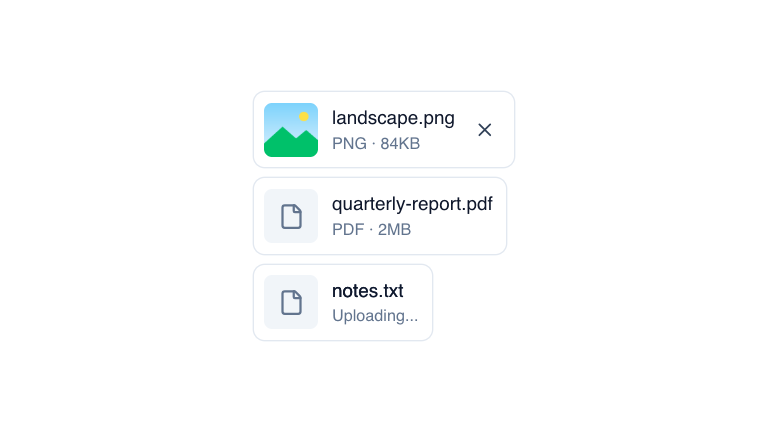
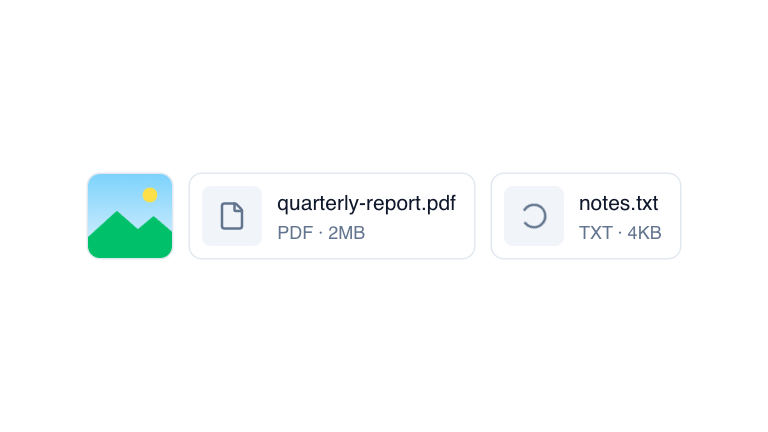
feat(ChatAttachment): show images as thumbnails with a corner remove button

diff --git a/src/runtime/components/ChatAttachment.vue b/src/runtime/components/ChatAttachment.vue
@@ -29,7 +29,7 @@ export interface ChatAttachmentProps {
    */
   url?: string
   /**
-   * The text displayed under the name. Defaults to the file extension and size.
+   * The text displayed under the name of a file that is not an image. Defaults to its extension and size.
    */
   description?: string
   /**
@@ -52,6 +52,12 @@ export interface ChatAttachmentProps {
    * @IconifyIcon
    */
   icon?: IconProps['name']
+  /**
+   * The icon displayed while the file uploads.
+   * @defaultValue appConfig.ui.icons.loading
+   * @IconifyIcon
+   */
+  loadingIcon?: IconProps['name']
   /**
    * The icon displayed when the upload fails.
    * @defaultValue appConfig.ui.icons.error
@@ -82,8 +88,6 @@ import { useLocale } from '../composables/useLocale'
 import { formatFileSize } from '../utils/file'
 import { tv } from '../utils/tv'
 import UIcon from './Icon.vue'
-import UButton from './Button.vue'
-import UChatShimmer from './ChatShimmer.vue'
 
 const _props = withDefaults(defineProps<ChatAttachmentProps>(), {
   as: 'div',
@@ -123,42 +127,51 @@ const fileDescription = computed(() => {
   return [extension, formatFileSize(props.file?.size)].filter(Boolean).join(' · ')
 })
 
+const statusIcon = computed(() => {
+  if (props.status === 'uploading') return props.loadingIcon || appConfig.ui.icons.loading
+  if (props.status === 'error') return props.errorIcon || appConfig.ui.icons.error
+
+  return undefined
+})
+
 // eslint-disable-next-line vue/no-dupe-keys
 const ui = computed(() => tv({ extend: theme, ...(appConfig.ui?.chatAttachment || {}) })({
   size: props.size,
+  image: isImage.value,
   status: props.status
 }))
 </script>
 
 <template>
   <Primitive :as="props.as" :data-status="props.status" data-slot="root" :class="ui.root({ class: [props.ui?.root, props.class] })">
-    <div data-slot="leading" :class="ui.leading({ class: props.ui?.leading })">
-      <img v-if="isImage" :src="previewUrl" :alt="fileName" data-slot="image" :class="ui.image({ class: props.ui?.image })">
-      <UIcon
-        v-else
-        :name="props.status === 'error' ? (props.errorIcon || appConfig.ui.icons.error) : (props.icon || appConfig.ui.icons.file)"
-        data-slot="leadingIcon"
-        :class="ui.leadingIcon({ class: props.ui?.leadingIcon })"
-      />
-    </div>
+    <template v-if="isImage">
+      <img :src="previewUrl" :alt="fileName" data-slot="image" :class="ui.image({ class: props.ui?.image })">
 
-    <div data-slot="wrapper" :class="ui.wrapper({ class: props.ui?.wrapper })">
-      <UChatShimmer v-if="props.status === 'uploading' && fileName" :text="fileName" data-slot="name" :class="ui.name({ class: props.ui?.name })" />
-      <span v-else data-slot="name" :class="ui.name({ class: props.ui?.name })">{{ fileName }}</span>
+      <div v-if="statusIcon" data-slot="overlay" :class="ui.overlay({ class: props.ui?.overlay })">
+        <UIcon :name="statusIcon" data-slot="overlayIcon" :class="ui.overlayIcon({ class: props.ui?.overlayIcon })" />
+      </div>
+    </template>
 
-      <span v-if="fileDescription" data-slot="description" :class="ui.description({ class: props.ui?.description })">{{ fileDescription }}</span>
-    </div>
+    <template v-else>
+      <div data-slot="leading" :class="ui.leading({ class: props.ui?.leading })">
+        <UIcon :name="statusIcon || props.icon || appConfig.ui.icons.file" data-slot="leadingIcon" :class="ui.leadingIcon({ class: props.ui?.leadingIcon })" />
+      </div>
 
-    <UButton
+      <div data-slot="wrapper" :class="ui.wrapper({ class: props.ui?.wrapper })">
+        <span data-slot="name" :class="ui.name({ class: props.ui?.name })">{{ fileName }}</span>
+        <span v-if="fileDescription" data-slot="description" :class="ui.description({ class: props.ui?.description })">{{ fileDescription }}</span>
+      </div>
+    </template>
+
+    <button
       v-if="props.removable"
-      :icon="props.removeIcon || appConfig.ui.icons.close"
-      color="neutral"
-      variant="ghost"
-      size="xs"
+      type="button"
       :aria-label="t('fileUpload.removeFile', { filename: fileName ?? '' })"
       data-slot="remove"
       :class="ui.remove({ class: props.ui?.remove })"
       @click="emits('remove', $event)"
-    />
+    >
+      <UIcon :name="props.removeIcon || appConfig.ui.icons.close" data-slot="removeIcon" :class="ui.removeIcon({ class: props.ui?.removeIcon })" />
+    </button>
   </Primitive>
 </template>

diff --git a/src/theme/chat-attachment.ts b/src/theme/chat-attachment.ts
@@ -1,43 +1,63 @@
-export default {
+import type { ModuleOptions } from '../module'
+
+export default (options: Required<ModuleOptions>) => ({
   slots: {
-    root: 'relative flex items-center min-w-0 max-w-full w-fit shrink-0 rounded-lg ring ring-default bg-default',
-    leading: 'relative flex items-center justify-center shrink-0 aspect-square overflow-hidden rounded-md bg-elevated text-muted',
+    root: 'group/attachment relative inline-flex items-center shrink-0 rounded-lg',
+    leading: 'flex items-center justify-center shrink-0 aspect-square rounded-md bg-elevated text-muted',
     leadingIcon: 'shrink-0',
-    image: 'size-full object-cover',
+    image: 'block aspect-square rounded-lg object-cover ring ring-default',
+    overlay: 'absolute inset-0 flex items-center justify-center rounded-lg bg-default/50 backdrop-blur-xs',
+    overlayIcon: 'shrink-0',
     wrapper: 'flex flex-col min-w-0 flex-1',
     name: 'block truncate font-medium text-highlighted',
     description: 'block truncate text-muted',
-    remove: 'shrink-0'
+    remove: ['absolute -top-1.5 -end-1.5 z-1 inline-flex items-center justify-center size-5 rounded-full bg-inverted text-inverted ring-2 ring-bg focus-visible:outline-2 focus-visible:outline-offset-2 focus-visible:outline-inverted [@media(hover:hover)]:opacity-0 group-hover/attachment:opacity-100 group-focus-within/attachment:opacity-100', options.theme.transitions && 'transition-opacity ease-out'],
+    removeIcon: 'size-3'
   },
   variants: {
     size: {
       xs: {
-        root: 'p-1 pe-1.5 gap-1.5 text-xs',
+        root: 'gap-1.5 text-xs has-data-[slot=leading]:p-1 has-data-[slot=leading]:pe-2',
         leading: 'size-7',
         leadingIcon: 'size-3.5',
+        image: 'size-10',
+        overlayIcon: 'size-4',
         description: 'text-[10px]/3'
       },
       sm: {
-        root: 'p-1.5 pe-2 gap-2 text-xs',
+        root: 'gap-2 text-xs has-data-[slot=leading]:p-1.5 has-data-[slot=leading]:pe-2.5',
         leading: 'size-8',
         leadingIcon: 'size-4',
+        image: 'size-12',
+        overlayIcon: 'size-5',
         description: 'text-xs/4'
       },
       md: {
-        root: 'p-2 pe-2.5 gap-2.5 text-sm',
+        root: 'gap-2.5 text-sm has-data-[slot=leading]:p-2 has-data-[slot=leading]:pe-3',
         leading: 'size-10',
         leadingIcon: 'size-5',
+        image: 'size-14',
+        overlayIcon: 'size-6',
         description: 'mt-0.5 text-xs'
+      }
+    },
+    image: {
+      true: '',
+      false: {
+        root: 'min-w-0 max-w-full ring ring-default bg-default'
       }
     },
     status: {
       idle: '',
       uploading: {
-        image: 'opacity-60'
+        leadingIcon: 'animate-spin',
+        overlayIcon: 'animate-spin text-default'
       },
       error: {
         root: 'ring-error/40',
+        image: 'ring-error/40',
         leading: 'bg-error/10 text-error',
+        overlayIcon: 'text-error',
         description: 'text-error'
       }
     }
@@ -46,4 +66,4 @@ export default {
     size: 'md',
     status: 'idle'
   }
-}
+})

diff --git a/test/components/ChatAttachment.spec.ts b/test/components/ChatAttachment.spec.ts
@@ -23,6 +23,7 @@ describe('ChatAttachment', () => {
     ...sizes.map((size: string) => [`with size ${size}`, { props: { ...props, size } }]),
     ['with icon', { props: { ...props, icon: 'i-lucide-file-text' } }],
     ['with errorIcon', { props: { ...props, status: 'error', errorIcon: 'i-lucide-circle-x' } }],
+    ['with loadingIcon', { props: { ...props, status: 'uploading', loadingIcon: 'i-lucide-loader' } }],
     ['with removeIcon', { props: { ...props, removable: true, removeIcon: 'i-lucide-trash' } }],
     ['with as', { props: { ...props, as: 'li' } }],
     ['with class', { props: { ...props, class: 'w-40' } }],

diff --git a/docs/content/docs/2.components/chat-attachment.md b/docs/content/docs/2.components/chat-attachment.md
@@ -11,7 +11,7 @@ navigation.badge: Soon
 
 ## Usage
 
-The ChatAttachment component displays a file with its name and a description, next to a thumbnail when it is an image or an icon otherwise.
+The ChatAttachment component displays an image as a thumbnail and any other file as its name and a description next to an icon.
 
 ::note
 This component is automatically used by the [`ChatPrompt`](/docs/components/chat-prompt#files) component to list the files bound with `v-model:files`.
@@ -47,7 +47,7 @@ props:
 
 ### Url
 
-Use the `url` prop to preview an image. The image is displayed when `type` is an image media type.
+Use the `url` prop to preview an image. The image is displayed when `type` is an image media type, and its `name` is used as the alternative text.
 
 ::component-code
 ---
@@ -80,7 +80,7 @@ Map a file part of a message to these props in the `#files` slot of [ChatMessage
 
 ### Description
 
-Use the `description` prop to set the text under the name. Defaults to the file extension and, with the `file` prop, its size.
+Use the `description` prop to set the text under the name of a file that is not an image. Defaults to the file extension and, with the `file` prop, its size.
 
 ::component-code
 ---
@@ -99,7 +99,7 @@ props:
 Use the `status` prop to show that the file is `uploading` or failed to upload with `error`. Defaults to `idle`.
 
 ::note
-While `uploading`, the name shimmers and an image is dimmed. With `error`, pass the reason to the `description` prop.
+While `uploading`, a spinner shows over the image or in place of the file icon. With `error`, pass the reason to the `description` prop.
 ::
 
 ::component-code
@@ -132,7 +132,7 @@ props:
 
 ### Removable
 
-Use the `removable` prop to display a button that emits a `remove` event.
+Use the `removable` prop to display a button that emits a `remove` event. It shows on hover or focus, and always on touch devices.
 
 ::component-code
 ---
